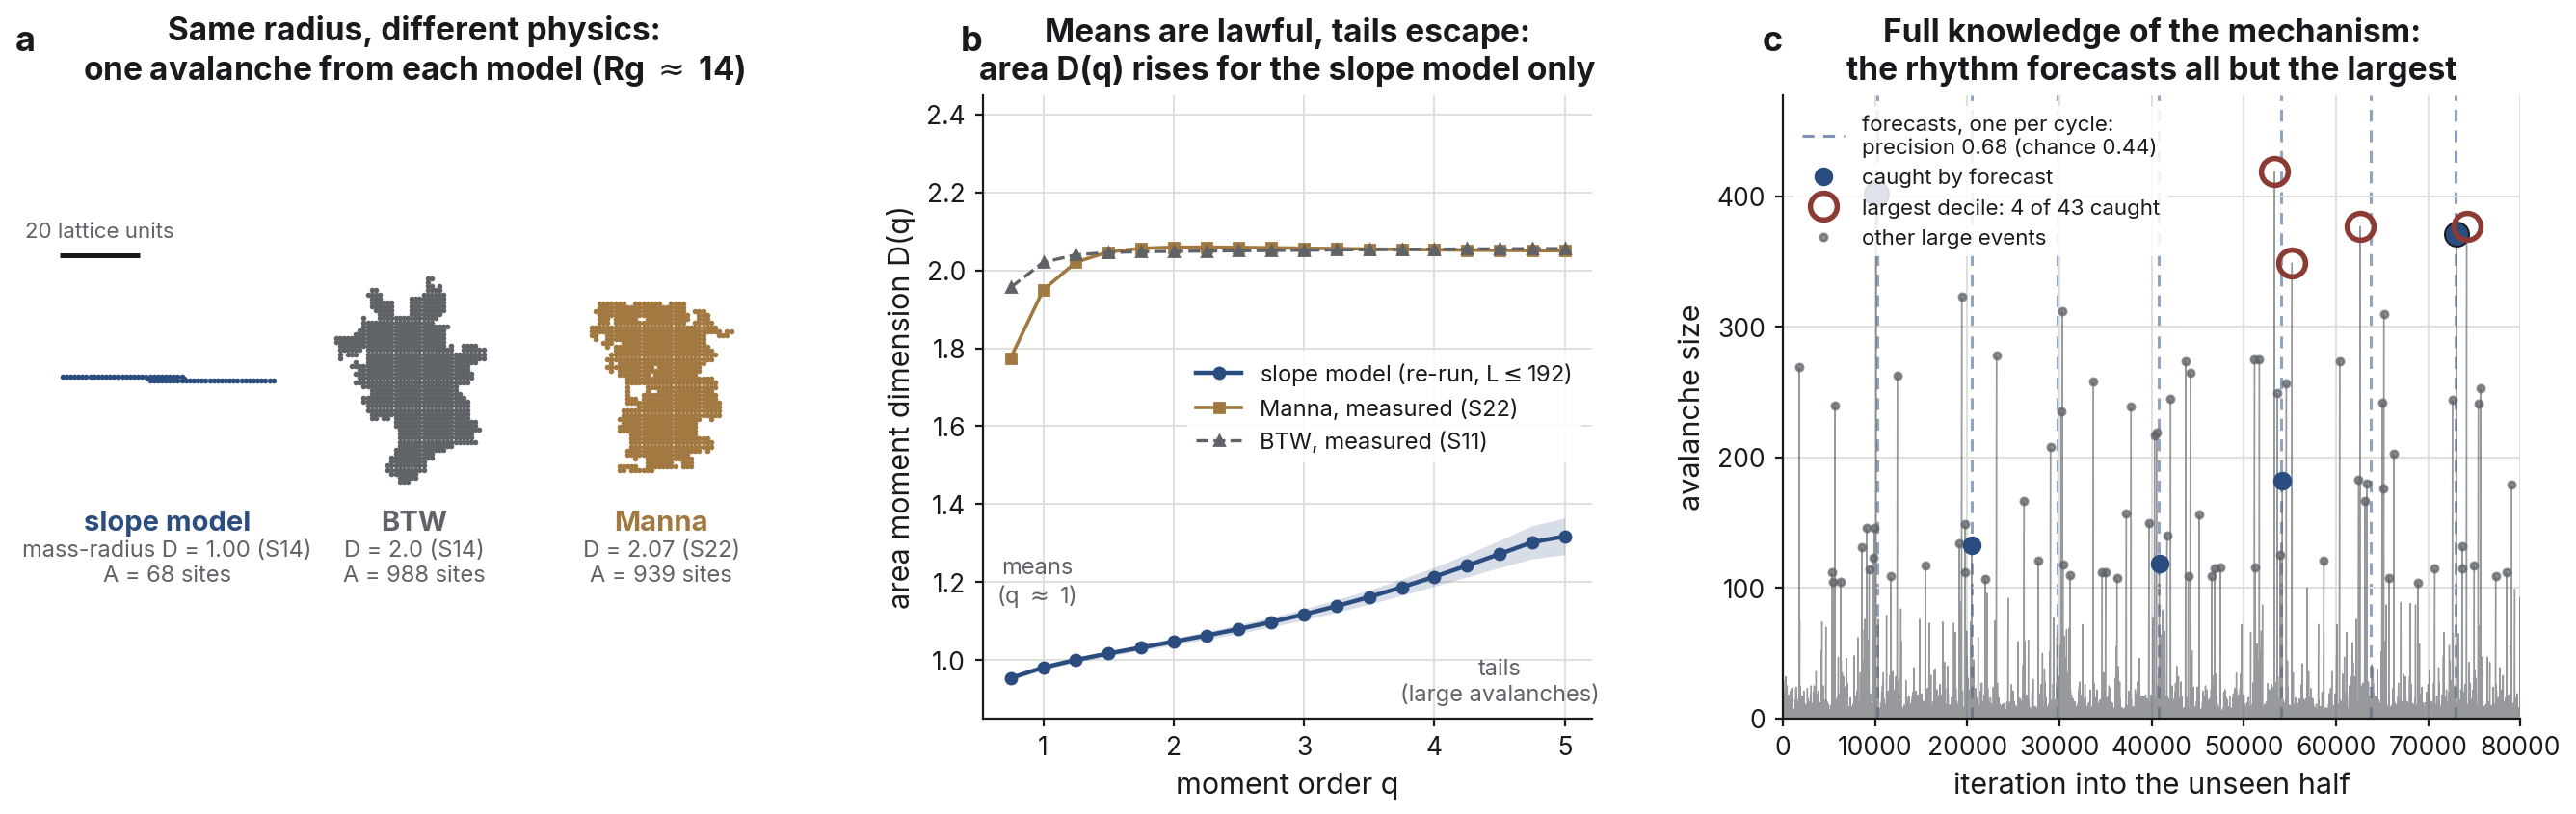
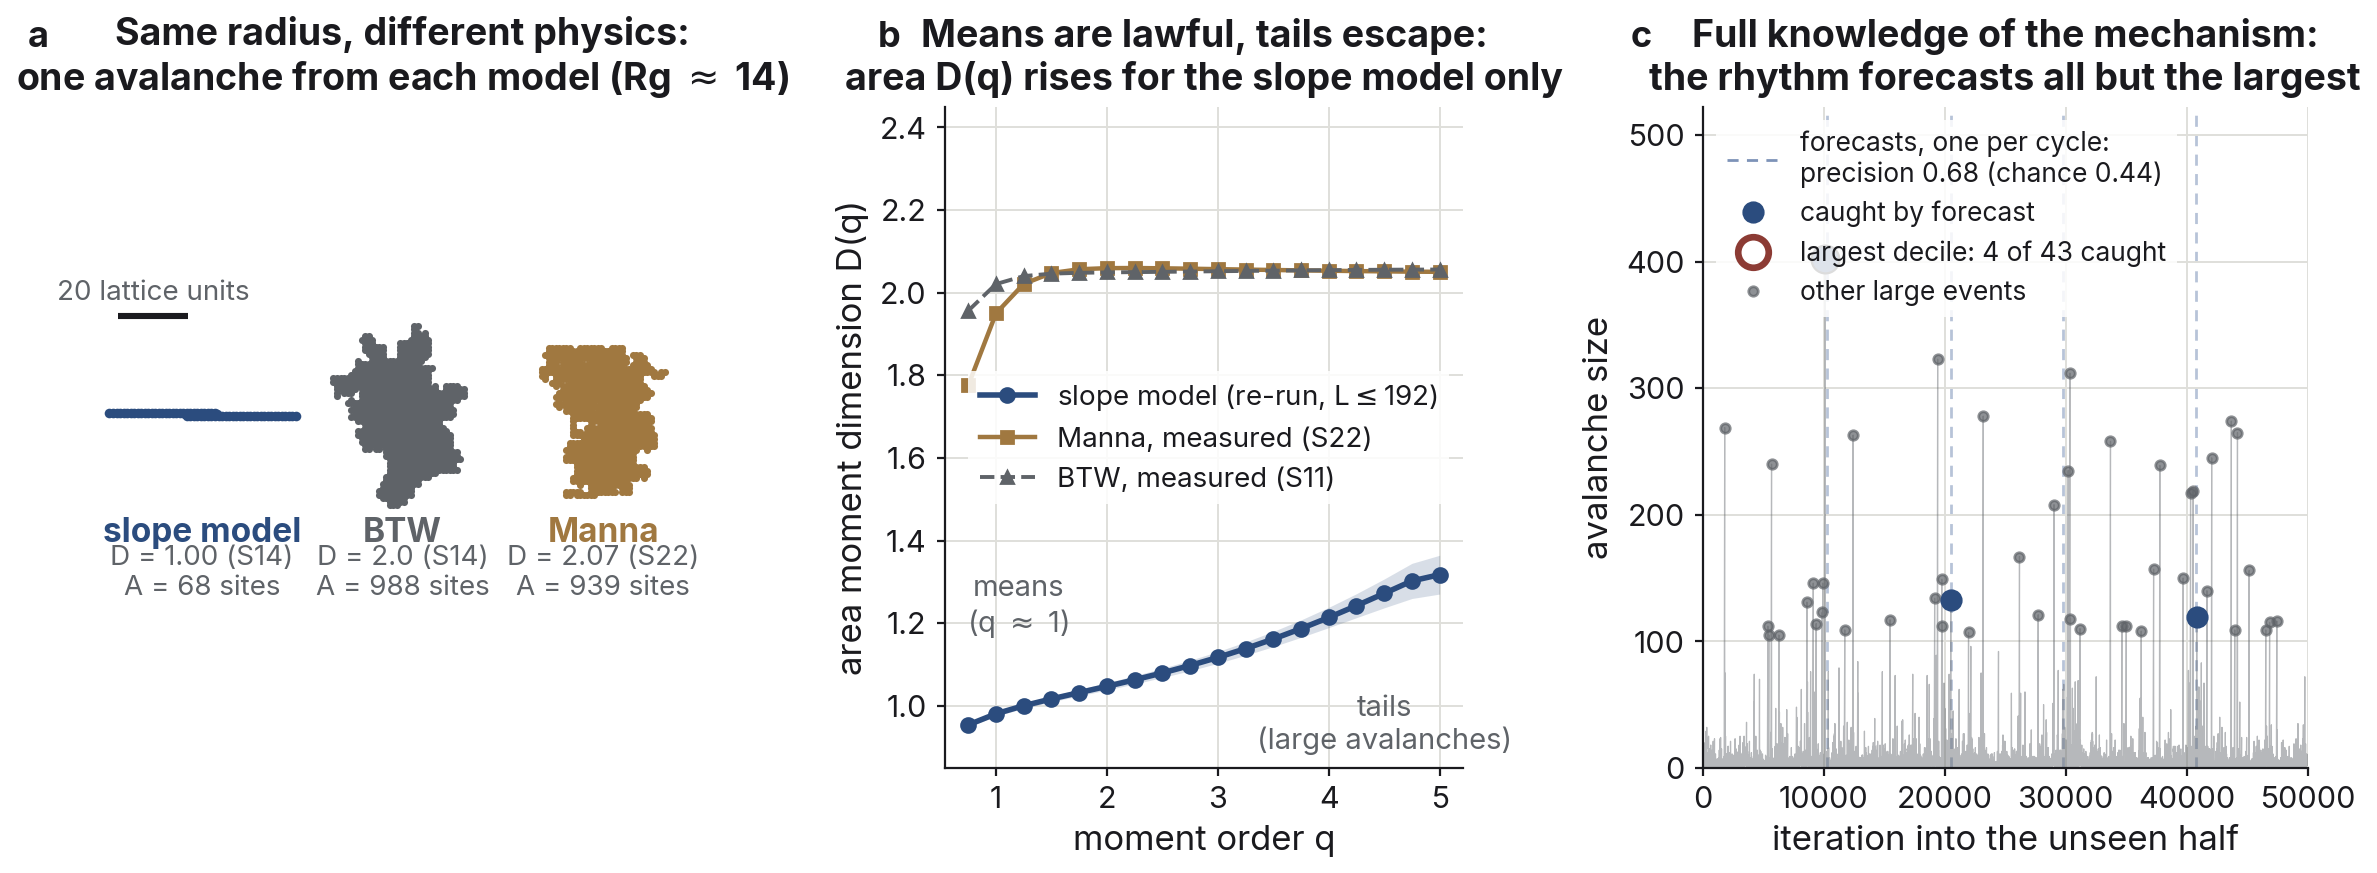
capstone: rebuild the teaser composite for on-page legibility
ninjahawk: the graphs at the top looked horrible. Presentation-only
redesign of make_teaser.py: type sized for the ~1060px display (old
annotations landed under 10 screen px), panel-a footprints set closer
with the one-bond filament drawn heavy enough to read, panel-c thinned
to a 50k-iteration window with light stems and the legend in clear
headroom, panel letters moved clear of the larger titles. Same seeds
and data pipeline; the re-run reproduced E7 exactly (precision 0.68 vs
chance 0.44, largest decile 4/43). Colophon synced (154.5 h, 179
commits).

diff --git a/docs/index.html b/docs/index.html
@@ -62,7 +62,7 @@
   <div class="stat-strip" aria-label="Project statistics">
     <div class="stat"><span class="num">3</span><span class="label">systems</span></div>
     <div class="stat"><span class="num">123</span><span class="label">findings</span></div>
-    <div class="stat"><span class="num">154.0</span><span class="label">hours</span></div>
+    <div class="stat"><span class="num">154.5</span><span class="label">hours</span></div>
     <div class="stat"><span class="num">133</span><span class="label">scripts</span></div>
     <div class="stat"><span class="num">9</span><span class="label">self-tests</span></div>
     <div class="stat"><span class="num">10</span><span class="label">corrections</span></div>
@@ -282,7 +282,7 @@
 
 <section id="colophon" class="colophon">
   <h2>Colophon</h2>
-  <p>123 documented findings (94 flocking, 22 sandpile, 7 earthquake) &middot; 154.0 logged hours over 39 research days &middot; 178 commits &middot; 150 figures &middot; 133 Python scripts. Built with NumPy, numba, and matplotlib. The performance engines (a 600&times; active-list sandpile engine, a 251&times; vectorized predator force) are validated bit-for-bit against their reference implementations, and every engine ships self-tests. Every figure on this page regenerates from a named script in the <a href="https://github.com/ninjahawk/swarmsim">repository</a>. Textbook: Paul Charbonneau, <em>Natural Complexity</em> (Princeton, 2017); flocking model from Silverberg et al., PRL 110, 228701 (2013). Findings, full-detail reports, and the day-by-day research log are in the repository. AI tools (Anthropic's Claude) were used as a coding and analysis assistant throughout, documented per session in the research log; the scientific decisions and interpretations are my own.</p>
+  <p>123 documented findings (94 flocking, 22 sandpile, 7 earthquake) &middot; 154.5 logged hours over 39 research days &middot; 179 commits &middot; 150 figures &middot; 133 Python scripts. Built with NumPy, numba, and matplotlib. The performance engines (a 600&times; active-list sandpile engine, a 251&times; vectorized predator force) are validated bit-for-bit against their reference implementations, and every engine ships self-tests. Every figure on this page regenerates from a named script in the <a href="https://github.com/ninjahawk/swarmsim">repository</a>. Textbook: Paul Charbonneau, <em>Natural Complexity</em> (Princeton, 2017); flocking model from Silverberg et al., PRL 110, 228701 (2013). Findings, full-detail reports, and the day-by-day research log are in the repository. AI tools (Anthropic's Claude) were used as a coding and analysis assistant throughout, documented per session in the research log; the scientific decisions and interpretations are my own.</p>
   <p>References:</p>
   <ol class="refs">
     <li>P. Charbonneau, <em>Natural Complexity: A Modeling Handbook</em>, Princeton University Press (2017).</li>

diff --git a/logs.html b/logs.html
@@ -410,7 +410,7 @@
       </tr>
       <tr data-date="2026-07-18">
         <td class="date-cell">2026-07-18</td>
-        <td class="hours-cell">3.00</td>
+        <td class="hours-cell">3.50</td>
         <td>Capstone finalization: full acceptance-checklist pass on the live site, every quoted number re-verified against the findings files (one fix: the E6 jitter fraction), end-of-summer statistics recounted and corrected on the page, README brought to the summer-complete state, the two deliberately-open ship items closed, everything pushed and re-verified live. Summer closed.</td>
       </tr>
     </tbody>
@@ -598,7 +598,7 @@
     },
     {
       date: "2026-07-18",
-      body: "Closing day. The site has been live since Tuesday, but a checklist is not passed until every box is walked against the real page, so today was the deliberate finalization pass: go through the locked plan's acceptance criteria one by one on the live site, fix what they catch, and close the summer's books.\n\nThe number audit caught exactly one error. The earthquake section described the self-test jitter as one part in twenty-five per topple, but the finding draws alpha fresh within plus or minus 0.01 of its value of 0.15, which is one part in fifteen. The page now states it that way. Every other quoted number I re-checked, more than twenty across the three chapters, traced cleanly back to its numbered finding. The bigger catch was the colophon: its statistics had been computed when the capstone plan was written on July 9 and never moved, so the page was still reporting the totals as of July 5 (133.5 hours over 35 days, 166 commits, 130 scripts) while the capstone sessions themselves pushed the true numbers past them. The final accounting, recounted today from the log and the repository: 154.0 logged hours over 39 research days, 178 commits, 150 figures, 133 Python scripts, 123 findings. The capstone's own build hours were the one thing the capstone had failed to count.\n\nThree small repairs went in alongside. The page's research-log link now opens the rendered log instead of raw HTML source. A stylesheet edge case that could put a useless horizontal scrollbar on mid-width desktop windows (the viewport width unit includes the scrollbar gutter on Windows) is now clipped. And the README's opening, which still described the June state of the flocking chapter as the project status, now reads as the finished summer: three chapters, 123 findings, the sandpile chapter's closing results through the measured Manna anchor, and the site linked at its canonical address.\n\nOne more revision came out of reading the live page fresh: the launch-day voice pass had overshot. Too many paragraphs ended on a dramatic one-liner, and a few asides admired the work instead of reporting it. I went back through the whole page and flattened those into plain statements, cut the em dashes that had crept into the captions, and left every number untouched. A second read caught the quieter versions of the same thing, signpost fragments and rhetorical pivots, and cut those too. The page reads closer to a lab notebook now, which is the register it should have had from the start. The prose source file was updated to match.\n\nLooking at the page on a full 1920-pixel screen also showed the layout reading sparse: a small text block in a sea of margin, undersized figures, and the contents list floating in the gutter where the widest figures could slide under its longest lines while scrolling. Screens past 1600 pixels now get a larger scale, an 18-pixel body on a 720-pixel column with figures up to 1060, and the contents list is anchored just clear of the wide-figure edge at every width.\n\nThe two items I had left open on purpose are now closed. The byline stays course-only; the plan always allowed shipping without the advisor's name pending his OK, that is the right resting state, and adding the line later is a one-line edit if he confirms he wants it there. And the prose has had its final read in its real typography, which is what Tuesday's voice revision amounted to. After today's push the live page re-verified from a clean session at the canonical URL, preview card intact.\n\nThat is the summer. Three textbook chapters became three closed research arcs: a flock that is a directional averager with exactly one attack surface, a sandpile whose typical avalanche obeys an exact law while its tails keep their own statistics, and an earthquake model whose clock forecasts everything except the events that matter. 123 documented findings, nine pre-registered self-tests, ten corrections kept in the record rather than papered over, and one page that argues what it all adds up to. Claude was the verification and editing assistant for today's pass; the sign-off is mine."
+      body: "Closing day. The site has been live since Tuesday, but a checklist is not passed until every box is walked against the real page, so today was the deliberate finalization pass: go through the locked plan's acceptance criteria one by one on the live site, fix what they catch, and close the summer's books.\n\nThe number audit caught exactly one error. The earthquake section described the self-test jitter as one part in twenty-five per topple, but the finding draws alpha fresh within plus or minus 0.01 of its value of 0.15, which is one part in fifteen. The page now states it that way. Every other quoted number I re-checked, more than twenty across the three chapters, traced cleanly back to its numbered finding. The bigger catch was the colophon: its statistics had been computed when the capstone plan was written on July 9 and never moved, so the page was still reporting the totals as of July 5 (133.5 hours over 35 days, 166 commits, 130 scripts) while the capstone sessions themselves pushed the true numbers past them. The final accounting, recounted today from the log and the repository: 154.5 logged hours over 39 research days, 179 commits, 150 figures, 133 Python scripts, 123 findings. The capstone's own build hours were the one thing the capstone had failed to count.\n\nThree small repairs went in alongside. The page's research-log link now opens the rendered log instead of raw HTML source. A stylesheet edge case that could put a useless horizontal scrollbar on mid-width desktop windows (the viewport width unit includes the scrollbar gutter on Windows) is now clipped. And the README's opening, which still described the June state of the flocking chapter as the project status, now reads as the finished summer: three chapters, 123 findings, the sandpile chapter's closing results through the measured Manna anchor, and the site linked at its canonical address.\n\nOne more revision came out of reading the live page fresh: the launch-day voice pass had overshot. Too many paragraphs ended on a dramatic one-liner, and a few asides admired the work instead of reporting it. I went back through the whole page and flattened those into plain statements, cut the em dashes that had crept into the captions, and left every number untouched. A second read caught the quieter versions of the same thing, signpost fragments and rhetorical pivots, and cut those too. The page reads closer to a lab notebook now, which is the register it should have had from the start. The prose source file was updated to match.\n\nLooking at the page on a full 1920-pixel screen also showed the layout reading sparse: a small text block in a sea of margin, undersized figures, and the contents list floating in the gutter where the widest figures could slide under its longest lines while scrolling. Screens past 1600 pixels now get a larger scale, an 18-pixel body on a 720-pixel column with figures up to 1060, and the contents list is anchored just clear of the wide-figure edge at every width.\n\nThe teaser composite needed more than a stylesheet fix and got a presentation rebuild: its type was landing below ten screen pixels at display size, the three example footprints floated far apart with the one-bond filament drawn so thin it nearly vanished, and the forecast panel buried its events under dense stems with the legend sitting on the data. The rebuilt version sizes its type for the page, sets the footprints closer with the filament drawn heavy enough to carry the panel, and thins the forecast panel to a 50,000-iteration window with the legend in clear headroom. All three panels recompute from the research code with the same seeds, and the rebuild's printed checks reproduced the June numbers exactly: forecast precision 0.68 against chance 0.44, and 4 of the 43 largest events caught.\n\nThe two items I had left open on purpose are now closed. The byline stays course-only; the plan always allowed shipping without the advisor's name pending his OK, that is the right resting state, and adding the line later is a one-line edit if he confirms he wants it there. And the prose has had its final read in its real typography, which is what Tuesday's voice revision amounted to. After today's push the live page re-verified from a clean session at the canonical URL, preview card intact.\n\nThat is the summer. Three textbook chapters became three closed research arcs: a flock that is a directional averager with exactly one attack surface, a sandpile whose typical avalanche obeys an exact law while its tails keep their own statistics, and an earthquake model whose clock forecasts everything except the events that matter. 123 documented findings, nine pre-registered self-tests, ten corrections kept in the record rather than papered over, and one page that argues what it all adds up to. Claude was the verification and editing assistant for today's pass; the sign-off is mine."
     }
   ];
 

diff --git a/capstone/make_teaser.py b/capstone/make_teaser.py
@@ -37,6 +37,17 @@ figstyle.apply()
 
 import matplotlib.pyplot as plt  # noqa: E402
 
+# The teaser is displayed at ~1060 px from a ~2400 px render, so type must be
+# larger than the site's default figure style or it lands below 10 screen px.
+plt.rcParams.update({
+    "font.size": 12.5,
+    "axes.titlesize": 13.5,
+    "axes.labelsize": 12.5,
+    "xtick.labelsize": 11.0,
+    "ytick.labelsize": 11.0,
+    "legend.fontsize": 10.0,
+})
+
 sys.path.insert(0, ROOT)                              # earthquake package
 sys.path.insert(0, os.path.join(ROOT, "sandpile"))    # sandpile modules
 from geometry2d import (slope_footprints, btw_footprints, decode_points,
@@ -130,29 +141,32 @@ def panel_a_data():
     for nm, rg in (("slope", rg_s), ("BTW", rg_b), ("Manna", rg_m)):
         print("    picked %s footprint at Rg = %.1f (target %.0f)" % (nm, rg, RG_TARGET))
         assert abs(rg - RG_TARGET) < 4.0, "no footprint near the target radius"
-    return [(slope_pts, figstyle.ACCENT, "slope model", "mass-radius D = 1.00 (S14)"),
+    return [(slope_pts, figstyle.ACCENT, "slope model", "D = 1.00 (S14)"),
             (btw_pts, figstyle.MUTED, "BTW", "D = 2.0 (S14)"),
             (manna_pts, figstyle.SAND, "Manna", "D = 2.07 (S22)")]
 
 
 def draw_panel_a(ax, trio):
-    ext = 27.0
-    gap = 62.0
+    ext = 24.0
+    gap = 57.0
     for k, (pts, color, name, dtxt) in enumerate(trio):
         p = pts - pts.mean(axis=0)
         x0 = k * gap
-        ax.scatter(p[:, 1] + x0, p[:, 0], s=4.0, color=color, linewidths=0)
-        ax.text(x0, ext + 6.0, name, ha="center", va="top", fontsize=10.5,
+        # the filament is one bond wide; without a bigger marker it renders as
+        # a hairline next to the compact blobs
+        ms = 12.0 if k == 0 else 6.5
+        ax.scatter(p[:, 1] + x0, p[:, 0], s=ms, color=color, linewidths=0)
+        ax.text(x0, ext + 5.0, name, ha="center", va="top", fontsize=12,
                 fontweight="bold", color=color)
-        ax.text(x0, ext + 13.5, "%s\nA = %d sites" % (dtxt, pts.shape[0]),
-                ha="center", va="top", fontsize=8.5, color=figstyle.MUTED)
+        ax.text(x0, ext + 13.0, "%s\nA = %d sites" % (dtxt, pts.shape[0]),
+                ha="center", va="top", fontsize=10, color=figstyle.MUTED)
     # shared scale bar
     ax.plot([-ext, -ext + 20], [-ext - 4, -ext - 4], "-",
-            color=figstyle.INK, lw=1.8, solid_capstyle="butt")
-    ax.text(-ext + 10, -ext - 7.5, "20 lattice units", ha="center", va="bottom",
-            fontsize=8, color=figstyle.MUTED)
-    ax.set_xlim(-ext - 6, 2 * gap + ext + 6)
-    ax.set_ylim(ext + 26.0, -ext - 12.0)
+            color=figstyle.INK, lw=2.2, solid_capstyle="butt")
+    ax.text(-ext + 10, -ext - 7.0, "20 lattice units", ha="center", va="bottom",
+            fontsize=10, color=figstyle.MUTED)
+    ax.set_xlim(-ext - 5, 2 * gap + ext + 5)
+    ax.set_ylim(ext + 24.0, -ext - 11.0)
     # datalim: pad the data window instead of shrinking the axes box, so the
     # title and panel label stay aligned with the other panels
     ax.set_aspect("equal", adjustable="datalim")
@@ -191,23 +205,23 @@ def draw_panel_b(ax, q_grid, DqA, DqA_sd, manna, btw):
     m = q_grid >= 0.75
     ax.fill_between(q_grid[m], (DqA - DqA_sd)[m], (DqA + DqA_sd)[m],
                     color=figstyle.ACCENT, alpha=0.18, lw=0)
-    ax.plot(q_grid[m], DqA[m], "o-", color=figstyle.ACCENT, ms=4,
+    ax.plot(q_grid[m], DqA[m], "o-", color=figstyle.ACCENT, ms=5, lw=2.0,
             label="slope model (re-run, L$\\leq$192)")
     qm = np.asarray(manna["q_grid"]); mm = qm >= 0.75
     ax.plot(qm[mm], np.asarray(manna["DqA"])[mm], "s-", color=figstyle.SAND,
-            ms=3.5, lw=1.3, label="Manna, measured (S22)")
+            ms=4.5, lw=1.6, label="Manna, measured (S22)")
     if "DqA" in getattr(btw, "files", []):
         qb = np.asarray(btw["q_grid"]); mb = qb >= 0.75
         ax.plot(qb[mb], np.asarray(btw["DqA"])[mb], "^--", color=figstyle.MUTED,
-                ms=3.5, lw=1.2, label="BTW, measured (S11)")
-    ax.annotate("means\n(q $\\approx$ 1)", xy=(0.95, 1.13), ha="center", va="bottom",
-                fontsize=8.5, color=figstyle.MUTED)
+                ms=4.5, lw=1.4, label="BTW, measured (S11)")
+    ax.annotate("means\n(q $\\approx$ 1)", xy=(1.2, 1.16), ha="center", va="bottom",
+                fontsize=10.5, color=figstyle.MUTED)
     ax.annotate("tails\n(large avalanches)", xy=(4.5, 0.02), xycoords=("data", "axes fraction"),
-                ha="center", va="bottom", fontsize=8.5, color=figstyle.MUTED)
+                ha="center", va="bottom", fontsize=10.5, color=figstyle.MUTED)
     ax.set_xlabel("moment order q")
     ax.set_ylabel("area moment dimension D(q)")
     ax.set_ylim(0.85, 2.45)
-    ax.legend(loc="center right", fontsize=8.5)
+    ax.legend(loc="center right")
     ax.set_title("Means are lawful, tails escape:\narea D(q) rises for the slope model only")
 
 
@@ -281,39 +295,39 @@ def panel_c_data(n_events=400_000, warm_events=400_000, seed=0):
 
 
 def draw_panel_c(ax, d):
-    span = 80_000
+    span = 50_000
     t0 = d["it_te"][0]
     m = d["it_te"] - t0 < span
-    ax.plot(d["it_te"][m] - t0, d["sz_te"][m], lw=0.5, color=figstyle.MUTED,
-            alpha=0.65, zorder=1)
+    ax.plot(d["it_te"][m] - t0, d["sz_te"][m], lw=0.45, color=figstyle.MUTED,
+            alpha=0.45, zorder=1)
     pm = (d["pred_t"] - t0 >= 0) & (d["pred_t"] - t0 < span)
     for x in d["pred_t"][pm] - t0:
-        ax.axvline(x, color=figstyle.SLATE, lw=1.1, ls=(0, (4, 3)), alpha=0.85, zorder=0)
-    ax.plot([], [], color=figstyle.SLATE, lw=1.1, ls=(0, (4, 3)),
+        ax.axvline(x, color=figstyle.SLATE, lw=1.0, ls=(0, (4, 3)), alpha=0.55, zorder=0)
+    ax.plot([], [], color=figstyle.SLATE, lw=1.0, ls=(0, (4, 3)),
             label="forecasts, one per cycle:\nprecision %.2f (chance %.2f)"
             % (d["precision"], d["chance"]))
     om = d["obs_t"] - t0 < span
     hit = om & d["caught"]
     miss = om & ~d["caught"]
     ax.plot(d["obs_t"][hit & ~d["top"]] - t0, d["obs_e"][hit & ~d["top"]], "o",
-            color=figstyle.ACCENT, ms=6, label="caught by forecast", zorder=3)
+            color=figstyle.ACCENT, ms=7, label="caught by forecast", zorder=3)
     ax.plot(d["obs_t"][hit & d["top"]] - t0, d["obs_e"][hit & d["top"]], "o",
-            color=figstyle.ACCENT, ms=9, mec=figstyle.INK, mew=0.7, zorder=3)
+            color=figstyle.ACCENT, ms=10, mec=figstyle.INK, mew=0.8, zorder=3)
     ax.plot(d["obs_t"][miss & d["top"]] - t0, d["obs_e"][miss & d["top"]], "o",
-            mfc="none", mec=figstyle.RUST, mew=2.0, ms=10,
+            mfc="none", mec=figstyle.RUST, mew=2.4, ms=11,
             label="largest decile: %d of %d caught" % (d["n_top_caught"], d["n_top"]),
             zorder=4)
     # typical large events not matched to a forecast: quiet dots (the forecaster
     # only aims at one event per cycle, so these are not failures)
     ax.plot(d["obs_t"][miss & ~d["top"]] - t0, d["obs_e"][miss & ~d["top"]], "o",
-            color=figstyle.MUTED, ms=2.6, alpha=0.7, lw=0,
+            color=figstyle.MUTED, ms=3.4, alpha=0.7, lw=0,
             label="other large events", zorder=2)
     ax.set_xlim(0, span)
     ymax = max(d["obs_e"][om].max(), d["sz_te"][m].max())
-    ax.set_ylim(0, 1.14 * ymax)
+    ax.set_ylim(0, 1.30 * ymax)
     ax.set_xlabel("iteration into the unseen half")
     ax.set_ylabel("avalanche size")
-    ax.legend(loc="upper left", fontsize=8, ncol=1)
+    ax.legend(loc="upper left", fontsize=9.5, ncol=1)
     ax.set_title("Full knowledge of the mechanism:\nthe rhythm forecasts all but the largest")
 
 
@@ -323,14 +337,14 @@ def main():
     q_grid, DqA, DqA_sd, manna, btw = panel_b_data()
     ofc = panel_c_data()
 
-    fig, axes = plt.subplots(1, 3, figsize=(13.6, 4.4),
-                             gridspec_kw=dict(width_ratios=[1.18, 0.95, 1.15]))
+    fig, axes = plt.subplots(1, 3, figsize=(12.0, 4.6),
+                             gridspec_kw=dict(width_ratios=[1.12, 0.96, 1.12]))
     draw_panel_a(axes[0], trio)
     draw_panel_b(axes[1], q_grid, DqA, DqA_sd, manna, btw)
     draw_panel_c(axes[2], ofc)
     for ax, letter in zip(axes, "abc"):
-        figstyle.panel_label(ax, letter, dx=0.0, dy=1.06)
-    fig.tight_layout(w_pad=2.2)
+        figstyle.panel_label(ax, letter, dx=-0.085, dy=1.08)
+    fig.tight_layout(w_pad=1.9)
     p = os.path.join(SITE, "teaser.png")
     fig.savefig(p)
     plt.close(fig)